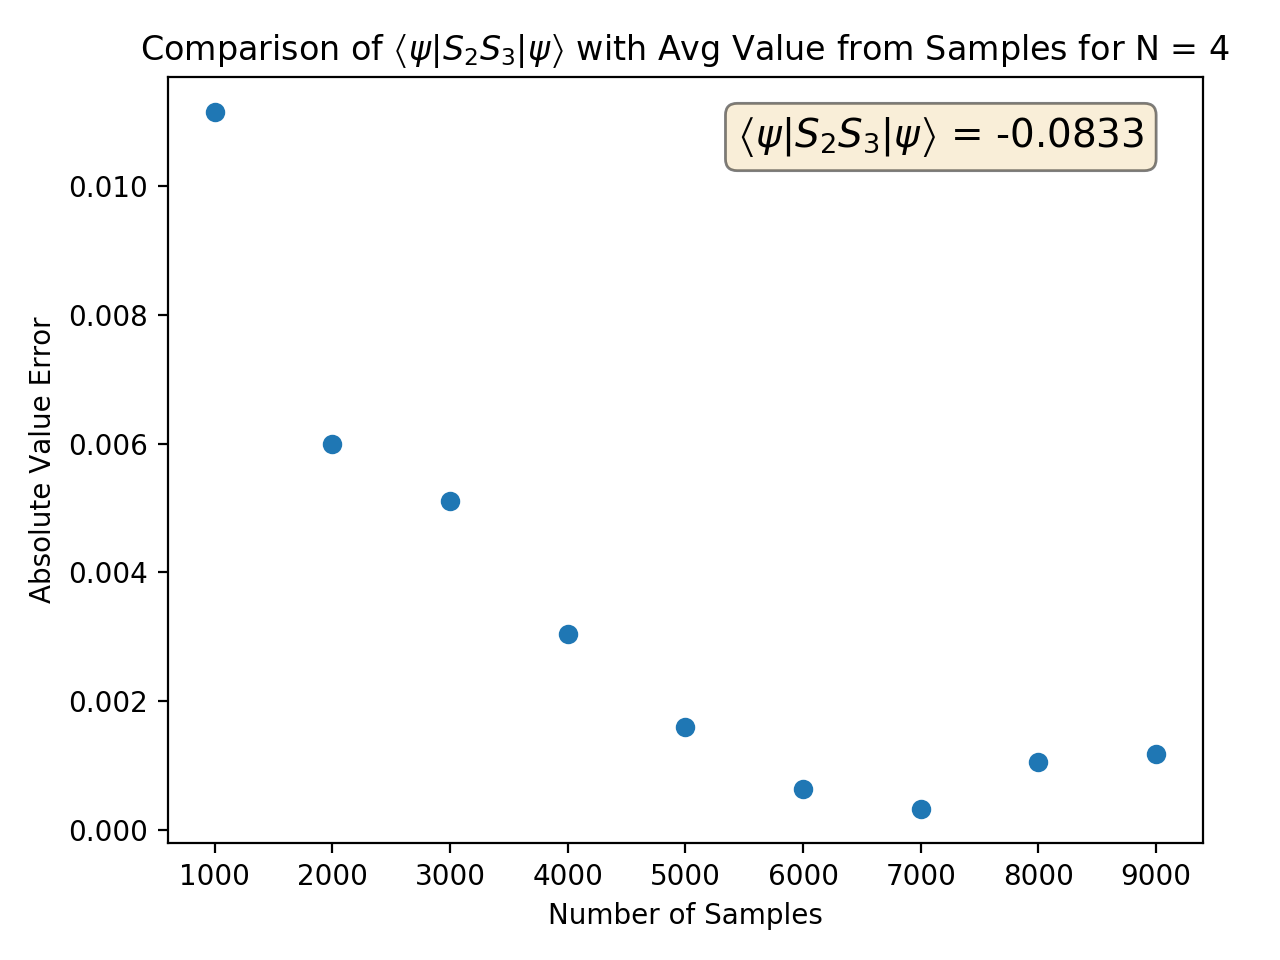
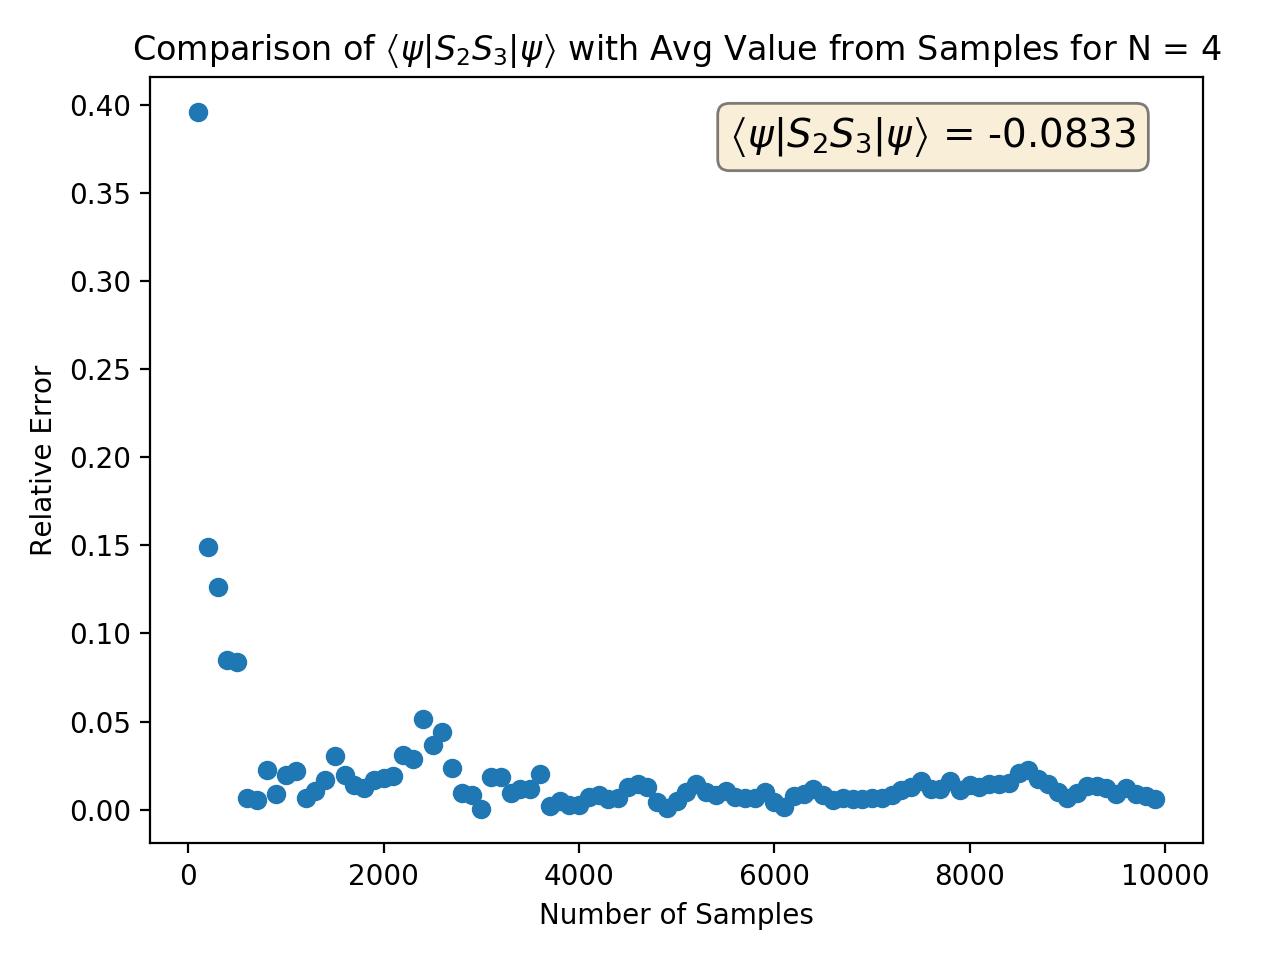
Added Operator Checks

diff --git a/CALL.py b/CALL.py
@@ -1,5 +1,13 @@
-import FrequencyCheck
-import OperatorCheck
+from FrequencyCheck import countCheck
+from OperatorCheck import operatorCheck
 
-#FrequencyCheck.countCheck("Samples/4Q")
-OperatorCheck.operatorCheck("Samples/4Q",-0.0833333,range(1000,10000,1000),4)
+def RUN(check,numQubits):
+    if check == "Frequency":
+        countCheck("Samples/{0}Q".format(numQubits))
+    elif check == "Operator":
+        if numQubits == 3:
+            operatorCheck("Samples/3Q",-0.166667,range(100,10000,100),3)
+        elif numQubits == 4:
+            operatorCheck("Samples/4Q",-0.0833333,range(100,10000,100),4)
+        elif numQubits == 5:
+            operatorCheck("Samples/5Q",-0.127916,range(100,10000,100),5)
